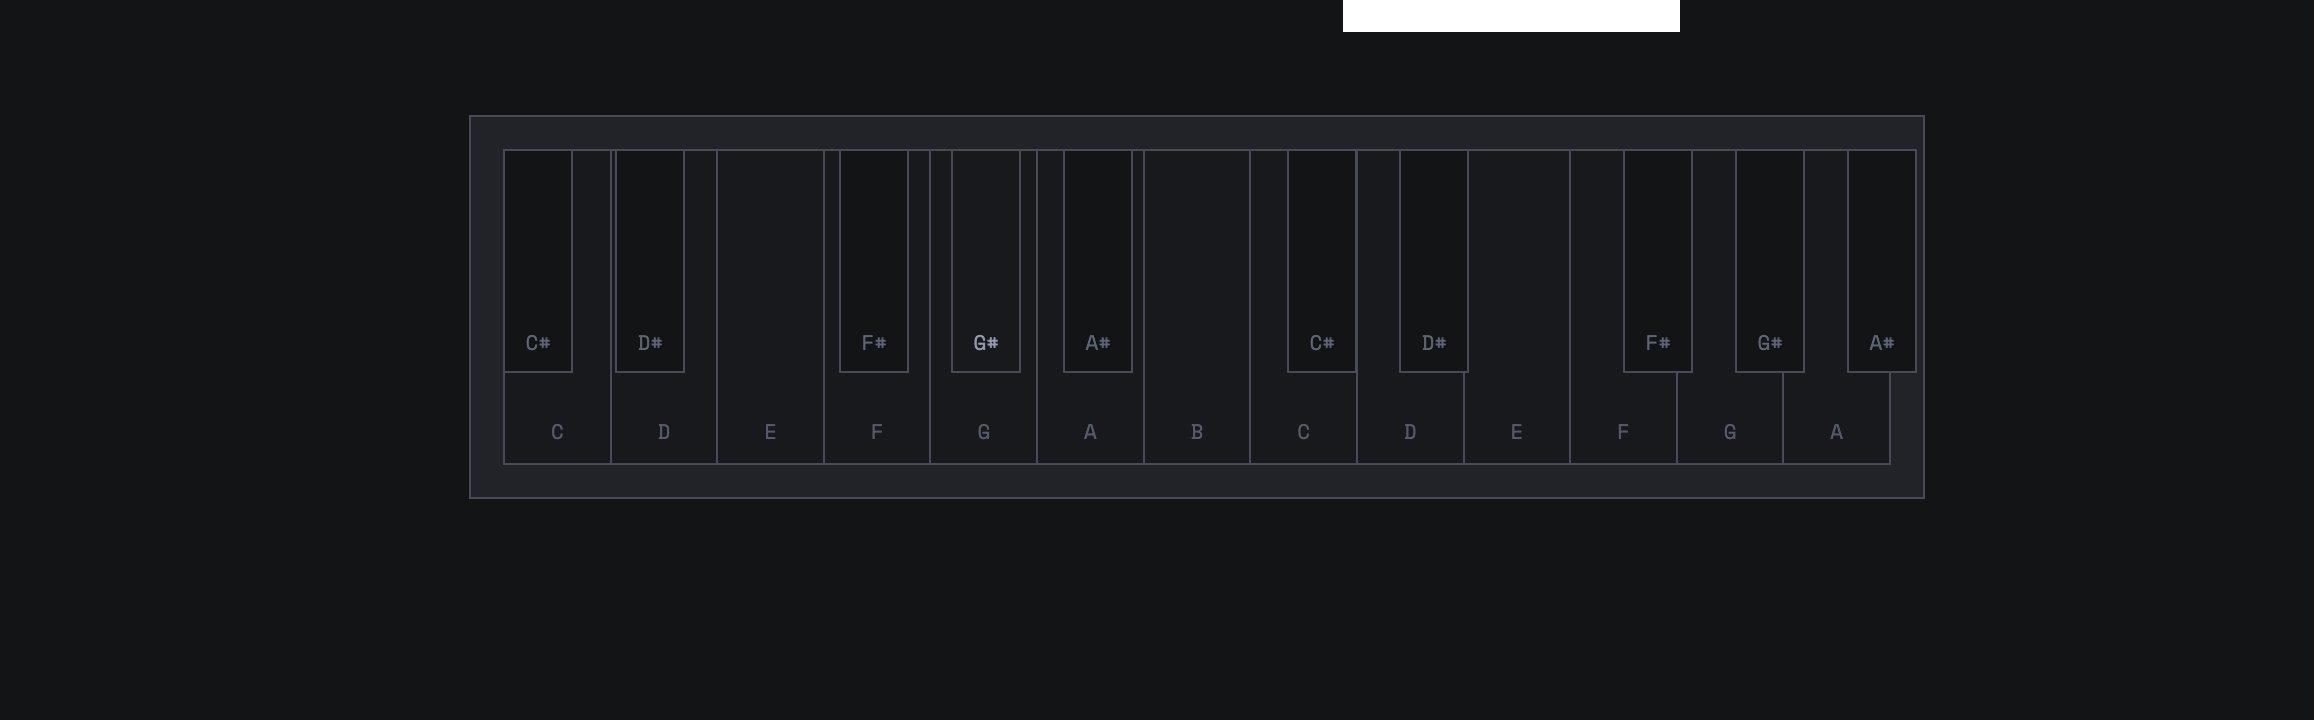
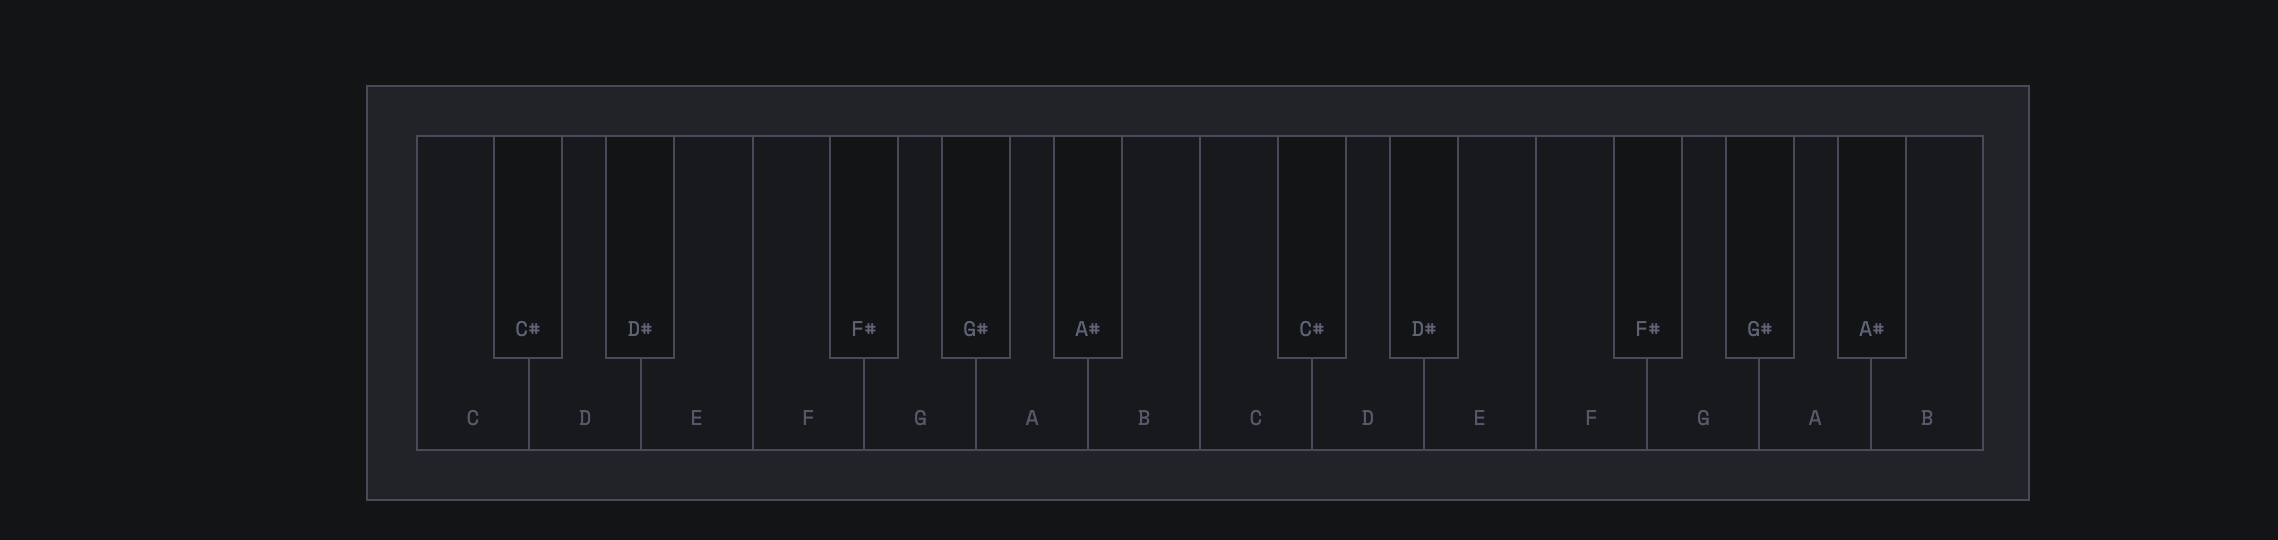
fixed black key positions

diff --git a/src/lib/components/Piano.svelte b/src/lib/components/Piano.svelte
@@ -34,20 +34,21 @@
 		{ note: 'E5', label: 'E', color: 'var(--blue)' },
 		{ note: 'F5', label: 'F', color: 'var(--purple)' },
 		{ note: 'G5', label: 'G', color: 'var(--pink)' },
-		{ note: 'A5', label: 'A', color: 'var(--blue)' }
+		{ note: 'A5', label: 'A', color: 'var(--blue)' },
+		{ note: 'B5', label: 'B', color: 'var(--purple)' }
 	];
 
 	const BLACK_KEYS = [
-		{ note: 'C#4', label: 'C#', position: 0.5, color: 'var(--purple)' },
-		{ note: 'D#4', label: 'D#', position: 1.5, color: 'var(--pink)' },
-		{ note: 'F#4', label: 'F#', position: 3.5, color: 'var(--blue)' },
-		{ note: 'G#4', label: 'G#', position: 4.5, color: 'var(--purple)' },
-		{ note: 'A#4', label: 'A#', position: 5.5, color: 'var(--pink)' },
-		{ note: 'C#5', label: 'C#', position: 7.5, color: 'var(--blue)' },
-		{ note: 'D#5', label: 'D#', position: 8.5, color: 'var(--purple)' },
-		{ note: 'F#5', label: 'F#', position: 10.5, color: 'var(--pink)' },
-		{ note: 'G#5', label: 'G#', position: 11.5, color: 'var(--blue)' },
-		{ note: 'A#5', label: 'A#', position: 12.5, color: 'var(--purple)' }
+		{ note: 'C#4', label: 'C#', position: 1, color: 'var(--purple)' },
+		{ note: 'D#4', label: 'D#', position: 2, color: 'var(--pink)' },
+		{ note: 'F#4', label: 'F#', position: 4, color: 'var(--blue)' },
+		{ note: 'G#4', label: 'G#', position: 5, color: 'var(--purple)' },
+		{ note: 'A#4', label: 'A#', position: 6, color: 'var(--pink)' },
+		{ note: 'C#5', label: 'C#', position: 8, color: 'var(--blue)' },
+		{ note: 'D#5', label: 'D#', position: 9, color: 'var(--purple)' },
+		{ note: 'F#5', label: 'F#', position: 11, color: 'var(--pink)' },
+		{ note: 'G#5', label: 'G#', position: 12, color: 'var(--blue)' },
+		{ note: 'A#5', label: 'A#', position: 13, color: 'var(--pink)' }
 	];
 
 	function playNote(frequency) {
@@ -169,7 +170,7 @@
 				<button
 					class="key black-key"
 					class:active={pressedKeys.has(key.note)}
-					style="left: calc({key.position} * var(--key-width)); --key-color: {key.color}"
+					style="left: calc({key.position} * var(--key-width) - (var(--black-key-width) / 2)); --key-color: {key.color}"
 					on:mousedown={() => handleMouseDown(key.note)}
 					on:mouseenter={() => handleMouseEnter(key.note)}
 					on:mouseleave={() => handleMouseLeave(key.note)}
@@ -193,11 +194,13 @@
 	.piano {
 		position: relative;
 		--key-width: 3.5rem;
-		width: calc(13 * var(--key-width));
-		height: 12rem;
+		--black-key-width: 2.2rem;
+		--body-padding: 1.5rem;
+		width: calc(14 * var(--key-width) + (2 * var(--body-padding)));
+		height: 13rem;
 		background: var(--bg-3);
 		border: 1px solid var(--txt-3);
-		padding: 1rem;
+		padding: var(--body-padding);
 		display: flex;
 		flex-direction: column;
 		touch-action: manipulation;
@@ -209,13 +212,14 @@
 		height: 100%;
 		position: relative;
 		z-index: 1;
+		width: calc(14 * var(--key-width));
 	}
 
 	.black-keys {
 		position: absolute;
-		top: 1rem;
-		left: 1rem;
-		width: calc(13 * var(--key-width));
+		top: var(--body-padding);
+		left: var(--body-padding);
+		width: calc(14 * var(--key-width));
 		height: 7rem;
 	}
 
@@ -233,6 +237,7 @@
 		justify-content: center;
 		padding-bottom: 0.5rem;
 		touch-action: manipulation;
+		box-sizing: border-box;
 	}
 
 	.white-key {
@@ -259,12 +264,11 @@
 
 	.black-key {
 		position: absolute;
-		width: 2.2rem;
+		width: var(--black-key-width);
 		height: 100%;
 		background: var(--bg);
 		color: var(--txt-2);
 		border: 1px solid var(--txt-3);
-		margin-left: calc(var(--key-width) * -0.5);
 		z-index: 2;
 		display: flex;
 		align-items: flex-end;
@@ -295,13 +299,8 @@
 	@media (max-width: 768px) {
 		.piano {
 			--key-width: 2.5rem;
+			--body-padding: 1rem;
 			height: 10rem;
-			padding: 0.75rem;
-		}
-
-		.black-keys {
-			top: 0.75rem;
-			left: 0.75rem;
 		}
 
 		.key {
@@ -317,15 +316,9 @@
 	@media (max-width: 480px) {
 		.piano {
 			--key-width: 2rem;
+			--black-key-width: 1.6rem;
 			height: 8rem;
-			padding: 0.5rem;
-			width: calc(13 * var(--key-width));
-		}
-
-		.black-keys {
-			top: 0.5rem;
-			left: 0.5rem;
-			width: calc(13 * var(--key-width));
+			--body-padding: 0.75rem;
 		}
 
 		.key {
@@ -334,7 +327,6 @@
 		}
 
 		.black-key {
-			width: 1.6rem;
 			padding-bottom: 0.2rem;
 		}
 
